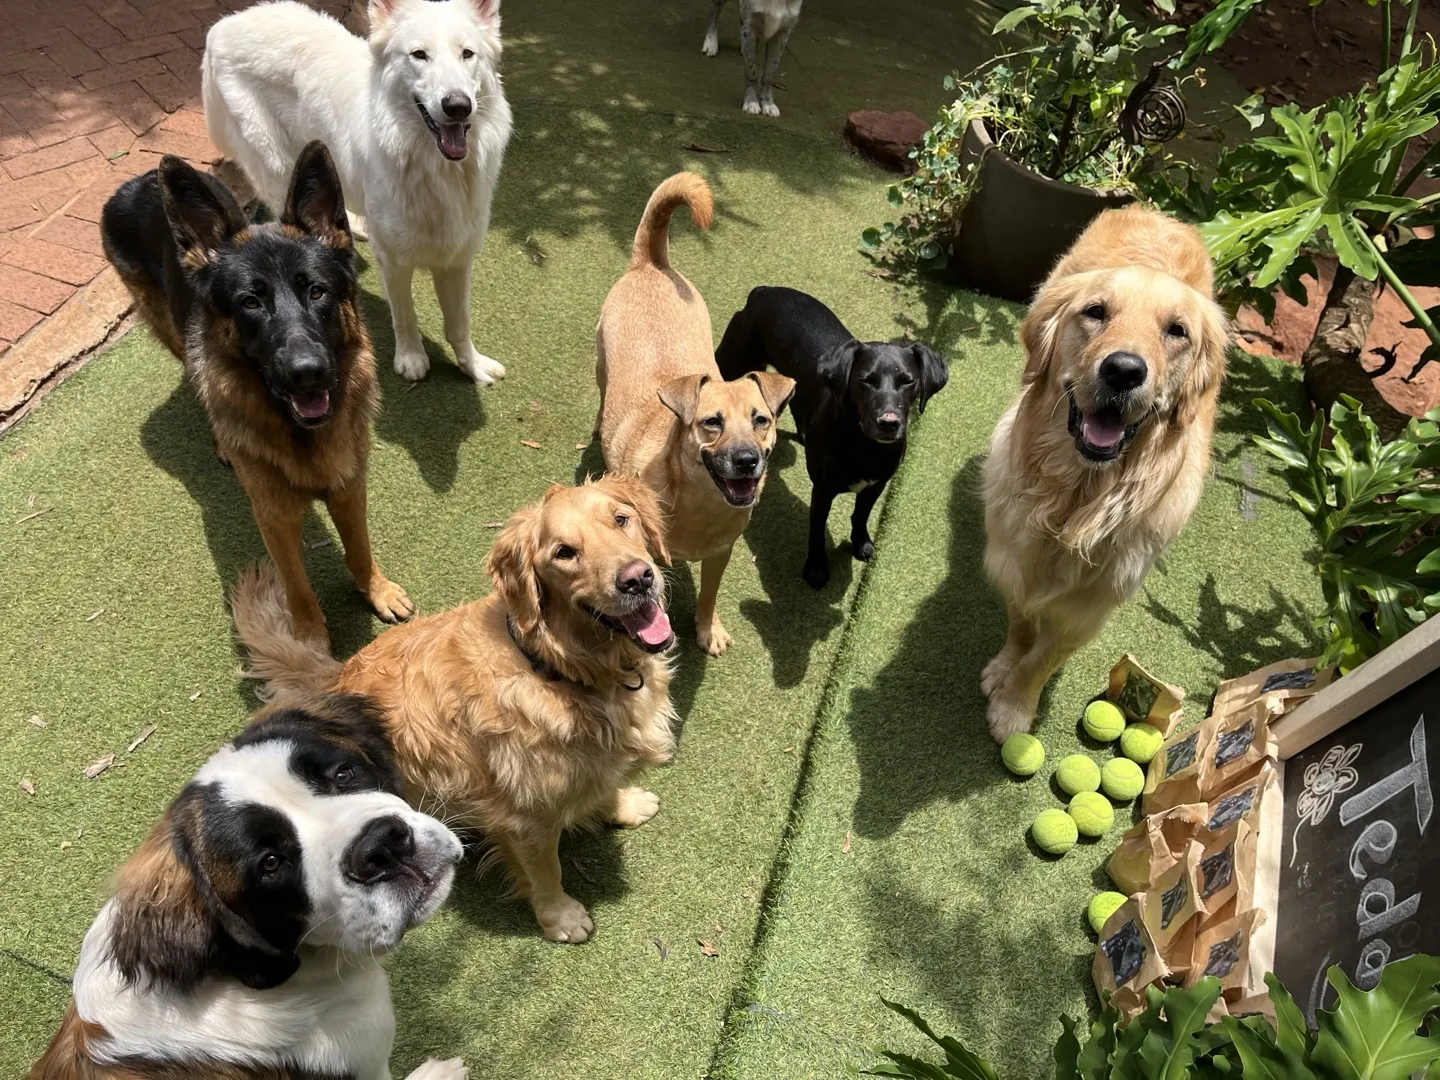
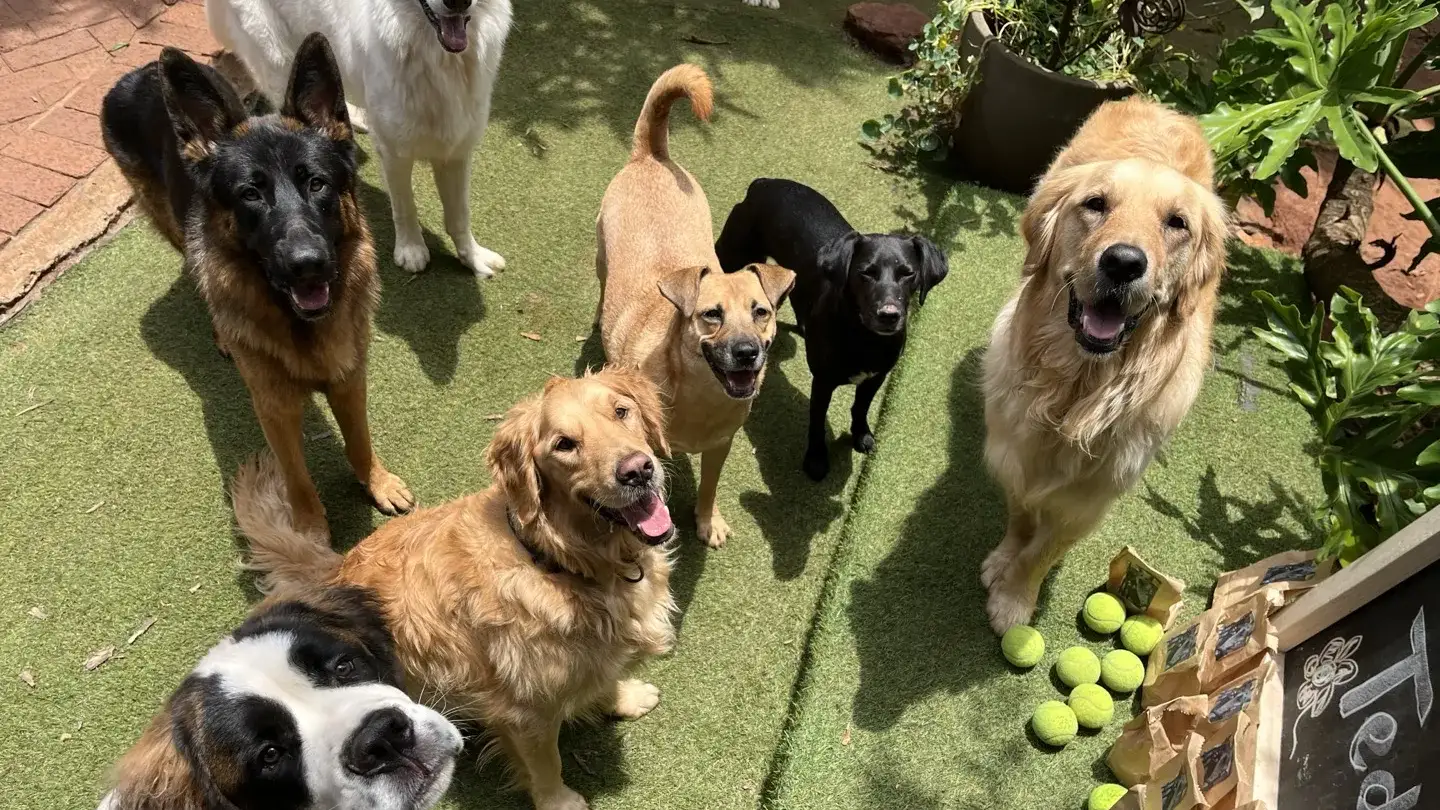
Optimise hero images and round gallery photo corners
- Crop desktop hero to 1440x810 and recompress at q65 (346KB -> 211KB)
- Recompress mobile hero at q65 (98KB -> 90KB)
- Update LQIP placeholder to match new crop
- Set gallery photo border-radius to 24px to match service cards

diff --git a/index.html b/index.html
@@ -724,7 +724,7 @@
 </header>
 
 <!-- ============ HERO ============ -->
[2 lines of base64/hex data omitted]
   <img
     src="images/hero-custom-desktop.webp"
     srcset="images/hero-custom-mobile.webp 800w, images/hero-custom-desktop.webp 1440w"
@@ -847,21 +847,21 @@
       <h2 class="section-title" id="gallery-heading">Meet Our Happy Guests</h2>
     </div>
     <div id="gallery-grid" style="display:grid;grid-template-columns:repeat(3,1fr);gap:16px;" role="list" aria-label="Photo gallery of dogs at Waterkloof Dog Daycare">
-      <img class="fade-up" loading="eager" decoding="async" src="images/gallery-01.webp" alt="Husky and tan mixed breed dog running on the green lawn at Waterkloof Dog Daycare, Pretoria" style="width:100%;height:220px;object-fit:cover;border-radius:var(--radius);cursor:pointer;" onclick="openLb(this.src)" role="listitem">
-      <img class="fade-up" loading="eager" decoding="async" src="images/gallery-02.webp" alt="Group of cattle dogs, border collie and golden retriever playing on the garden path at dog daycare in Waterkloof Ridge" style="width:100%;height:220px;object-fit:cover;border-radius:var(--radius);cursor:pointer;" onclick="openLb(this.src)" role="listitem">
-      <img class="fade-up" loading="eager" decoding="async" src="images/gallery-03.webp" alt="Seven dogs including white Swiss Shepherd, husky and Labrador gathered on brick patio at Waterkloof Dog Daycare" style="width:100%;height:220px;object-fit:cover;border-radius:var(--radius);cursor:pointer;" onclick="openLb(this.src)" role="listitem">
-      <img class="fade-up" loading="lazy" decoding="async" src="images/gallery-04.webp" alt="Friendly Labrador and mixed breed dogs greeting the camera at dog daycare in Waterkloof Ridge" style="width:100%;height:220px;object-fit:cover;border-radius:var(--radius);cursor:pointer;" onclick="openLb(this.src)" role="listitem">
-      <img class="fade-up" loading="lazy" decoding="async" src="images/gallery-05.webp" alt="Golden retriever, German Shepherd and border collie with tennis ball at Waterkloof Dog Daycare" style="width:100%;height:220px;object-fit:cover;border-radius:var(--radius);cursor:pointer;" onclick="openLb(this.src)" role="listitem">
-      <img class="fade-up" loading="lazy" decoding="async" src="images/gallery-06.webp" alt="Dogs playing with a rugby ball on the covered patio at Waterkloof Dog Daycare Pretoria" style="width:100%;height:220px;object-fit:cover;border-radius:var(--radius);cursor:pointer;" onclick="openLb(this.src)" role="listitem">
-      <img class="fade-up" loading="lazy" decoding="async" src="images/gallery-07.webp" alt="German Shepherd, white Swiss Shepherd, cattle dog and Jack Russell relaxing on patio at Waterkloof Dog Daycare" style="width:100%;height:220px;object-fit:cover;border-radius:var(--radius);cursor:pointer;" onclick="openLb(this.src)" role="listitem">
-      <img class="fade-up" loading="lazy" decoding="async" src="images/gallery-08.webp" alt="Close-up portrait of a smiling white Swiss Shepherd at Waterkloof Dog Daycare in Pretoria" style="width:100%;height:220px;object-fit:cover;border-radius:var(--radius);cursor:pointer;" onclick="openLb(this.src)" role="listitem">
-      <img class="fade-up" loading="lazy" decoding="async" src="images/gallery-09.webp" alt="Dogs in a secure fenced play area with lush garden at Waterkloof Ridge dog boarding, Pretoria" style="width:100%;height:220px;object-fit:cover;border-radius:var(--radius);cursor:pointer;" onclick="openLb(this.src)" role="listitem">
-      <img class="fade-up" loading="lazy" decoding="async" src="images/gallery-10.webp" alt="German Shepherd close-up holding a rubber chicken toy at Waterkloof Dog Daycare" style="width:100%;height:220px;object-fit:cover;border-radius:var(--radius);cursor:pointer;" onclick="openLb(this.src)" role="listitem">
-      <img class="fade-up" loading="lazy" decoding="async" src="images/gallery-11.webp" alt="Dogs with tennis balls on grass including Saint Bernard and golden retrievers at Waterkloof Ridge daycare" style="width:100%;height:220px;object-fit:cover;border-radius:var(--radius);cursor:pointer;" onclick="openLb(this.src)" role="listitem">
-      <img class="fade-up" loading="lazy" decoding="async" src="images/gallery-12.webp" alt="Dogs celebrating a birthday with a chalkboard sign and tennis balls at Waterkloof Dog Daycare" style="width:100%;height:220px;object-fit:cover;border-radius:var(--radius);cursor:pointer;" onclick="openLb(this.src)" role="listitem">
-      <img class="fade-up" loading="lazy" decoding="async" src="images/gallery-13.webp" alt="Border Collie mix wearing festive reindeer antlers on the grass at Waterkloof Dog Daycare" style="width:100%;height:220px;object-fit:cover;border-radius:var(--radius);cursor:pointer;" onclick="openLb(this.src)" role="listitem">
-      <img class="fade-up" loading="lazy" decoding="async" src="images/gallery-14.webp" alt="Vizsla, German Shorthaired Pointer and Staffy sitting on grass at dog daycare in Pretoria" style="width:100%;height:220px;object-fit:cover;border-radius:var(--radius);cursor:pointer;" onclick="openLb(this.src)" role="listitem">
-      <img class="fade-up" loading="lazy" decoding="async" src="images/gallery-15.webp" alt="Saint Bernard and white Swiss Shepherd standing under leafy plants at dog boarding in Waterkloof Ridge" style="width:100%;height:220px;object-fit:cover;border-radius:var(--radius);cursor:pointer;" onclick="openLb(this.src)" role="listitem">
+      <img class="fade-up" loading="eager" decoding="async" src="images/gallery-01.webp" alt="Husky and tan mixed breed dog running on the green lawn at Waterkloof Dog Daycare, Pretoria" style="width:100%;height:220px;object-fit:cover;border-radius:24px;cursor:pointer;" onclick="openLb(this.src)" role="listitem">
+      <img class="fade-up" loading="eager" decoding="async" src="images/gallery-02.webp" alt="Group of cattle dogs, border collie and golden retriever playing on the garden path at dog daycare in Waterkloof Ridge" style="width:100%;height:220px;object-fit:cover;border-radius:24px;cursor:pointer;" onclick="openLb(this.src)" role="listitem">
+      <img class="fade-up" loading="eager" decoding="async" src="images/gallery-03.webp" alt="Seven dogs including white Swiss Shepherd, husky and Labrador gathered on brick patio at Waterkloof Dog Daycare" style="width:100%;height:220px;object-fit:cover;border-radius:24px;cursor:pointer;" onclick="openLb(this.src)" role="listitem">
+      <img class="fade-up" loading="lazy" decoding="async" src="images/gallery-04.webp" alt="Friendly Labrador and mixed breed dogs greeting the camera at dog daycare in Waterkloof Ridge" style="width:100%;height:220px;object-fit:cover;border-radius:24px;cursor:pointer;" onclick="openLb(this.src)" role="listitem">
+      <img class="fade-up" loading="lazy" decoding="async" src="images/gallery-05.webp" alt="Golden retriever, German Shepherd and border collie with tennis ball at Waterkloof Dog Daycare" style="width:100%;height:220px;object-fit:cover;border-radius:24px;cursor:pointer;" onclick="openLb(this.src)" role="listitem">
+      <img class="fade-up" loading="lazy" decoding="async" src="images/gallery-06.webp" alt="Dogs playing with a rugby ball on the covered patio at Waterkloof Dog Daycare Pretoria" style="width:100%;height:220px;object-fit:cover;border-radius:24px;cursor:pointer;" onclick="openLb(this.src)" role="listitem">
+      <img class="fade-up" loading="lazy" decoding="async" src="images/gallery-07.webp" alt="German Shepherd, white Swiss Shepherd, cattle dog and Jack Russell relaxing on patio at Waterkloof Dog Daycare" style="width:100%;height:220px;object-fit:cover;border-radius:24px;cursor:pointer;" onclick="openLb(this.src)" role="listitem">
+      <img class="fade-up" loading="lazy" decoding="async" src="images/gallery-08.webp" alt="Close-up portrait of a smiling white Swiss Shepherd at Waterkloof Dog Daycare in Pretoria" style="width:100%;height:220px;object-fit:cover;border-radius:24px;cursor:pointer;" onclick="openLb(this.src)" role="listitem">
+      <img class="fade-up" loading="lazy" decoding="async" src="images/gallery-09.webp" alt="Dogs in a secure fenced play area with lush garden at Waterkloof Ridge dog boarding, Pretoria" style="width:100%;height:220px;object-fit:cover;border-radius:24px;cursor:pointer;" onclick="openLb(this.src)" role="listitem">
+      <img class="fade-up" loading="lazy" decoding="async" src="images/gallery-10.webp" alt="German Shepherd close-up holding a rubber chicken toy at Waterkloof Dog Daycare" style="width:100%;height:220px;object-fit:cover;border-radius:24px;cursor:pointer;" onclick="openLb(this.src)" role="listitem">
+      <img class="fade-up" loading="lazy" decoding="async" src="images/gallery-11.webp" alt="Dogs with tennis balls on grass including Saint Bernard and golden retrievers at Waterkloof Ridge daycare" style="width:100%;height:220px;object-fit:cover;border-radius:24px;cursor:pointer;" onclick="openLb(this.src)" role="listitem">
+      <img class="fade-up" loading="lazy" decoding="async" src="images/gallery-12.webp" alt="Dogs celebrating a birthday with a chalkboard sign and tennis balls at Waterkloof Dog Daycare" style="width:100%;height:220px;object-fit:cover;border-radius:24px;cursor:pointer;" onclick="openLb(this.src)" role="listitem">
+      <img class="fade-up" loading="lazy" decoding="async" src="images/gallery-13.webp" alt="Border Collie mix wearing festive reindeer antlers on the grass at Waterkloof Dog Daycare" style="width:100%;height:220px;object-fit:cover;border-radius:24px;cursor:pointer;" onclick="openLb(this.src)" role="listitem">
+      <img class="fade-up" loading="lazy" decoding="async" src="images/gallery-14.webp" alt="Vizsla, German Shorthaired Pointer and Staffy sitting on grass at dog daycare in Pretoria" style="width:100%;height:220px;object-fit:cover;border-radius:24px;cursor:pointer;" onclick="openLb(this.src)" role="listitem">
+      <img class="fade-up" loading="lazy" decoding="async" src="images/gallery-15.webp" alt="Saint Bernard and white Swiss Shepherd standing under leafy plants at dog boarding in Waterkloof Ridge" style="width:100%;height:220px;object-fit:cover;border-radius:24px;cursor:pointer;" onclick="openLb(this.src)" role="listitem">
     </div>
   </div>
 </section>